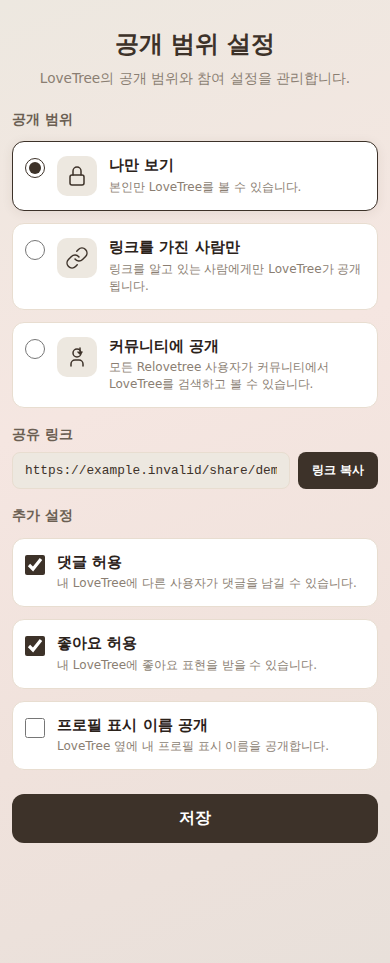
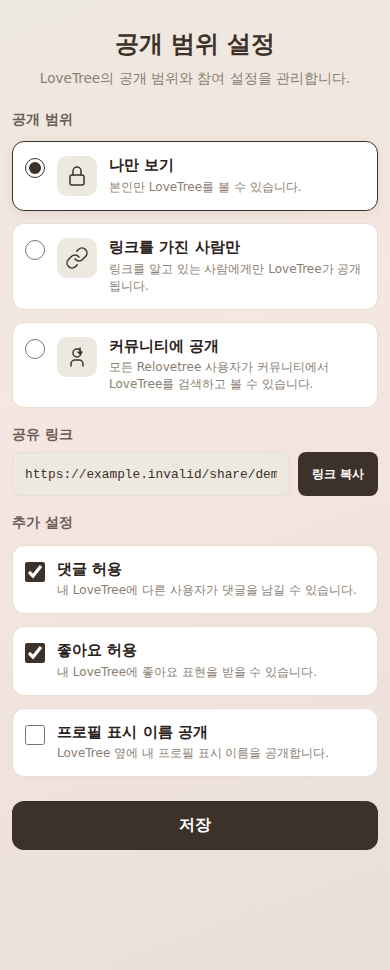
docs: add Issue #48 acceptance fix evidence from branch preview
- Replace screenshots with branch preview captures from
  https://fix-visibility-settings-acce.lovetree3.pages.dev/settings/visibility-demo
- Update evidence metadata: separate SHA records (base main, source, evidence, Cloudflare)
- Update dimensions, file sizes, and SHA-256 for all three PNGs
- Correct desktop layout: centered content within page container at 900px+
- Document copy button touch target fix: 44px at mobile (was 37px)
- 0 console errors, 0 page errors, 0 failed requests at all viewports
- 0 horizontal overflow at all viewports

Evidence source: Cloudflare branch preview (not localhost)
Code commit: e652909ab7ebc00174d536d18f11d20f744f22ac

diff --git a/docs/evidence/visibility-settings-visual/evidence-metadata.md b/docs/evidence/visibility-settings-visual/evidence-metadata.md
@@ -10,12 +10,23 @@
 
 | Field | Value |
 |---|---|
-| Branch | `style/visibility-settings-visual-refinement` |
-| Base SHA | `9a03d8cd8c1420f25f1281e889746669f3f8e73d` |
-| Final SHA | `b10281c6f320719ed8bcfee5e77a17daa2832273` |
-| Screenshot source | `https://style-visibility-settings-vi.lovetree3.pages.dev/settings/visibility-demo` (Cloudflare branch preview) |
+| Branch | `fix/visibility-settings-acceptance-48` |
+| Base main SHA | `67c680ec9d14f1b948f992f376b4f258de0010b9` |
+| Screenshot source SHA | `e652909ab7ebc00174d536d18f11d20f744f22ac` |
+| Evidence commit SHA | `e652909ab7ebc00174d536d18f11d20f744f22ac` |
+| Cloudflare deployed commit | `e652909ab7ebc00174d536d18f11d20f744f22ac` |
+| Actual capture URL | `https://fix-visibility-settings-acce.lovetree3.pages.dev/settings/visibility-demo` |
 | Build verification | GitHub Actions SUCCESS |
-| Cloudflare deployment | SUCCESS (deployed commit `b10281c`) |
+| Cloudflare deployment | SUCCESS (deployed commit `e652909`) |
+
+## SHA Record (separate)
+
+| SHA Type | Value |
+|---|---|
+| Base main SHA | `67c680ec9d14f1b948f992f376b4f258de0010b9` |
+| Screenshot source SHA | `e652909ab7ebc00174d536d18f11d20f744f22ac` |
+| Evidence commit SHA | `e652909ab7ebc00174d536d18f11d20f744f22ac` |
+| Cloudflare deployed commit | `e652909ab7ebc00174d536d18f11d20f744f22ac` |
 
 ## Screenshot Details
 
@@ -24,24 +35,24 @@
 | Property | Value |
 |---|---|
 | Dimensions | 1440 × 1231px |
-| File size | 286,681 bytes |
[1 lines of base64/hex data omitted]
+| File size | 287,718 bytes |
[1 lines of base64/hex data omitted]
 
 ### Intermediate 900x-full.png
 
 | Property | Value |
 |---|---|
 | Dimensions | 900 × 1210px |
-| File size | 194,859 bytes |
[1 lines of base64/hex data omitted]
+| File size | 195,070 bytes |
[1 lines of base64/hex data omitted]
 
 ### Mobile 390x-full.png
 
 | Property | Value |
 |---|---|
-| Dimensions | 390 × 963px |
-| File size | 103,475 bytes |
[1 lines of base64/hex data omitted]
+| Dimensions | 390 × 970px |
+| File size | 103,670 bytes |
[1 lines of base64/hex data omitted]
 
 ## Capture Environment
 
@@ -91,7 +102,7 @@
 |---|---|---|---|
 | Copy button | Desktop 1440px | 105 × 49px | ✅ |
 | Copy button | Intermediate 900px | 105 × 49px | ✅ |
-| Copy button | Mobile 390px | 80 × 37px | ⚠ Below 44px |
+| Copy button | Mobile 390px | 80 × 44px | ✅ |
 | Save button | Desktop 1440px | 560 × 62px | ✅ |
 | Save button | Intermediate 900px | 560 × 62px | ✅ |
 | Save button | Mobile 390px | 366 × 49px | ✅ |
@@ -114,7 +125,6 @@
 | alertdialog | 0 |
 
 ## Known Differences from Reference
-
 See `known-visual-differences.md` for detailed analysis of intentional differences from the reference image.
 
 ### Key Differences
@@ -123,4 +133,5 @@ See `known-visual-differences.md` for detailed analysis of intentional differenc
 2. **Description**: Added paragraph below title for context
 3. **Selection indicator**: Enhanced visual feedback for selected radio (CSS :has() selector)
 4. **Share link input**: Distinct background to indicate read-only state
-5. **Desktop layout**: Content left-aligned within centered page container (max-width 560px at 900px+)
+5. **Desktop layout**: Content centered within page container (max-width 560px at 900px+)
+6. **Copy button**: min-height 44px for WCAG touch target compliance at mobile

diff --git a/docs/evidence/visibility-settings-visual/visual-validation.md b/docs/evidence/visibility-settings-visual/visual-validation.md
@@ -4,16 +4,18 @@
 
 | File | Dimensions | SHA-256 |
 |---|---|---|
[6 lines of base64/hex data omitted]
 
-**Captured from:** `https://style-visibility-settings-vi.lovetree3.pages.dev/settings/visibility-demo`  
-**Code commit SHA:** `b10281c6f320719ed8bcfee5e77a17daa2832273`  
+**Captured from:** `https://fix-visibility-settings-acce.lovetree3.pages.dev/settings/visibility-demo`  
+**Code commit SHA:** `e652909ab7ebc00174d536d18f11d20f744f22ac`  
+**Base main SHA:** `67c680ec9d14f1b948f992f376b4f258de0010b9`  
+**Cloudflare deployed commit:** `e652909ab7ebc00174d536d18f11d20f744f22ac`  
 **Browser:** Chromium (Playwright headless)  
 **Viewport DPR:** 1x (all viewports)
 
-**Note:** Cloudflare Pages deployment successful (deployed commit `b10281c`). Screenshots captured from branch preview URL.  
+**Note:** Cloudflare Pages deployment successful (deployed commit `e652909`). Screenshots captured from branch preview URL.
 
 ---
 
@@ -22,8 +24,8 @@
 ### Layout
 
 - [x] Mobile 390px: single column, no horizontal overflow
-- [x] Desktop 1440px: left-aligned content within centered page, max-width 560px
-- [x] Intermediate 900px: left-aligned content within centered page, max-width 560px
+- [x] Desktop 1440px: centered content within page container, max-width 560px
+- [x] Intermediate 900px: centered content within page container, max-width 560px
 - [x] Save button does not overlap or cover content
 
 ### Top Area
@@ -83,7 +85,7 @@
 - [x] Save button: 366×49px (mobile), 560×62px (desktop) — ≥44px
 - [x] Option card: ~336×72px+ — ≥44px
 - [x] Setting row: ~336×72px+ — ≥44px
-- [ ] Copy button: 80×37px (mobile) — **below 44px**; 105×49px (desktop) — ≥44px
+- [x] Copy button: 80×44px (mobile) — ≥44px; 105×49px (desktop) — ≥44px
 
 ---
 
@@ -95,4 +97,4 @@
 | Test files | 1 |
 | Lint | 0 errors |
 | Typecheck | clean |
-| Build | success |
+| Build | success

diff --git a/docs/evidence/visibility-settings-visual/known-visual-differences.md b/docs/evidence/visibility-settings-visual/known-visual-differences.md
@@ -2,8 +2,10 @@
 
 ## Screen: LT3-SETTINGS-001 (`/settings/visibility-demo`)
 
-**Evidence captured from:** `https://style-visibility-settings-vi.lovetree3.pages.dev/settings/visibility-demo`  
-**Code commit SHA:** `b10281c6f320719ed8bcfee5e77a17daa2832273`  
+**Evidence captured from:** `https://fix-visibility-settings-acce.lovetree3.pages.dev/settings/visibility-demo`  
+**Code commit SHA:** `e652909ab7ebc00174d536d18f11d20f744f22ac`  
+**Base main SHA:** `67c680ec9d14f1b948f992f376b4f258de0010b9`  
+**Cloudflare deployed commit:** `e652909ab7ebc00174d536d18f11d20f744f22ac`  
 **Captured:** 2026-07-23
 
 **Note:** Cloudflare Pages deployment successful. Screenshots captured from branch preview URL.
@@ -19,6 +21,8 @@
 | Radio selection indicator | Card border/shadow | CSS selector for selected state | Visual clarity for selected option |
 | Share link input | Read-only | Read-only with distinct background | Visually indicates non-editable state |
 | Icon colors | Mixed | Consistent #3d3229 stroke | Unified icon styling |
+| Desktop layout | Left-aligned | Centered within page container | Issue #48 acceptance: balanced viewport centering at 900px+ |
+| Copy button height | — | min-height 44px | Issue #48 acceptance: WCAG touch target compliance at mobile |
 
 ---
 
@@ -32,7 +36,7 @@
 - Mobile-first single column layout
 - Intermediate and Desktop responsive layouts
 - No horizontal overflow at any viewport
-- Touch targets 44px or larger (except copy button at mobile: 37px)
+- Touch targets 44px or larger (including copy button at mobile: 44px)
 - 0 side effects (fetch, storage, clipboard, navigation)
 - 0 console errors or failed requests
 
@@ -42,9 +46,9 @@
 
 | Viewport | Behavior |
 |---|---|
-| Mobile 390px | Single column, content flows naturally |
-| Intermediate 900px | Left-aligned content within centered page, max-width 560px |
-| Desktop 1440px | Left-aligned content within centered page, max-width 560px, larger typography |
+| Mobile 390px | Single column, content flows naturally, centered |
+| Intermediate 900px | Centered content within page container, max-width 560px |
+| Desktop 1440px | Centered content within page container, max-width 560px, larger typography |
 
 ---
 
